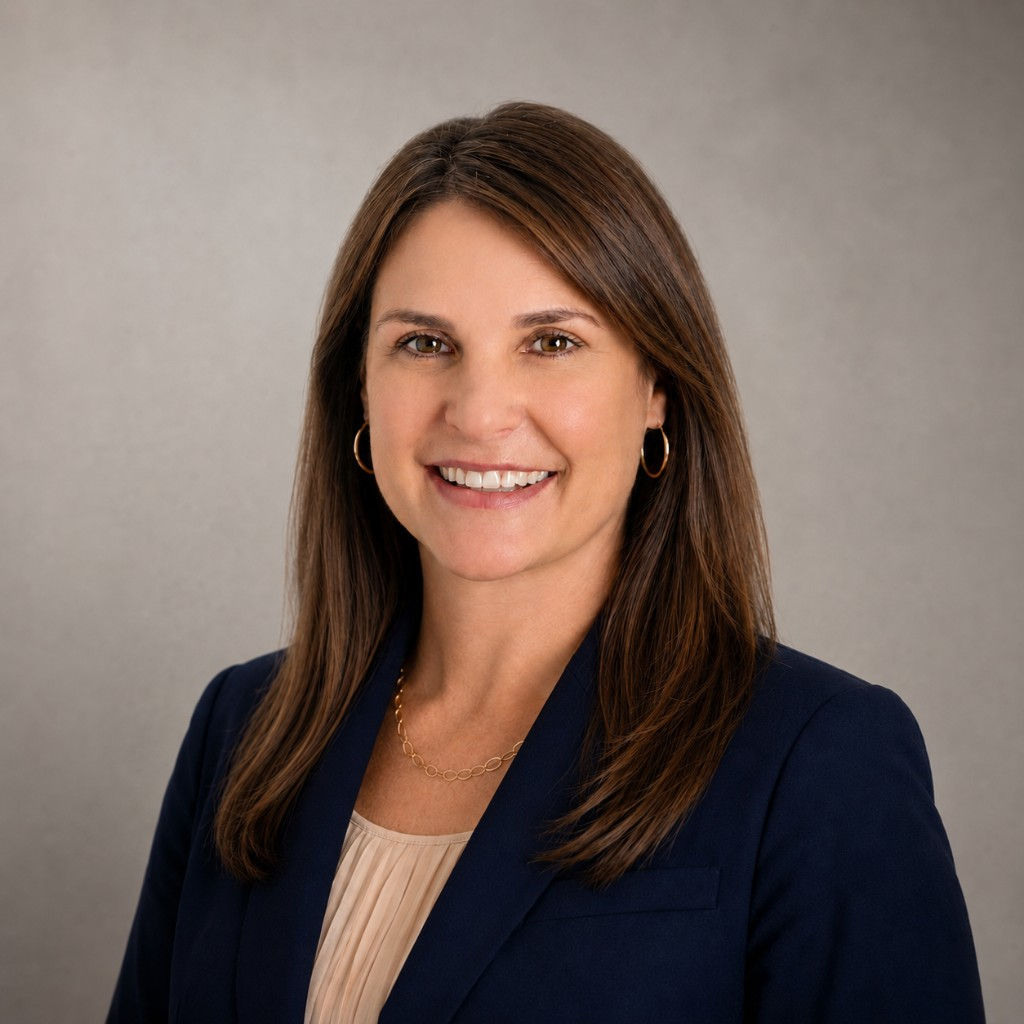
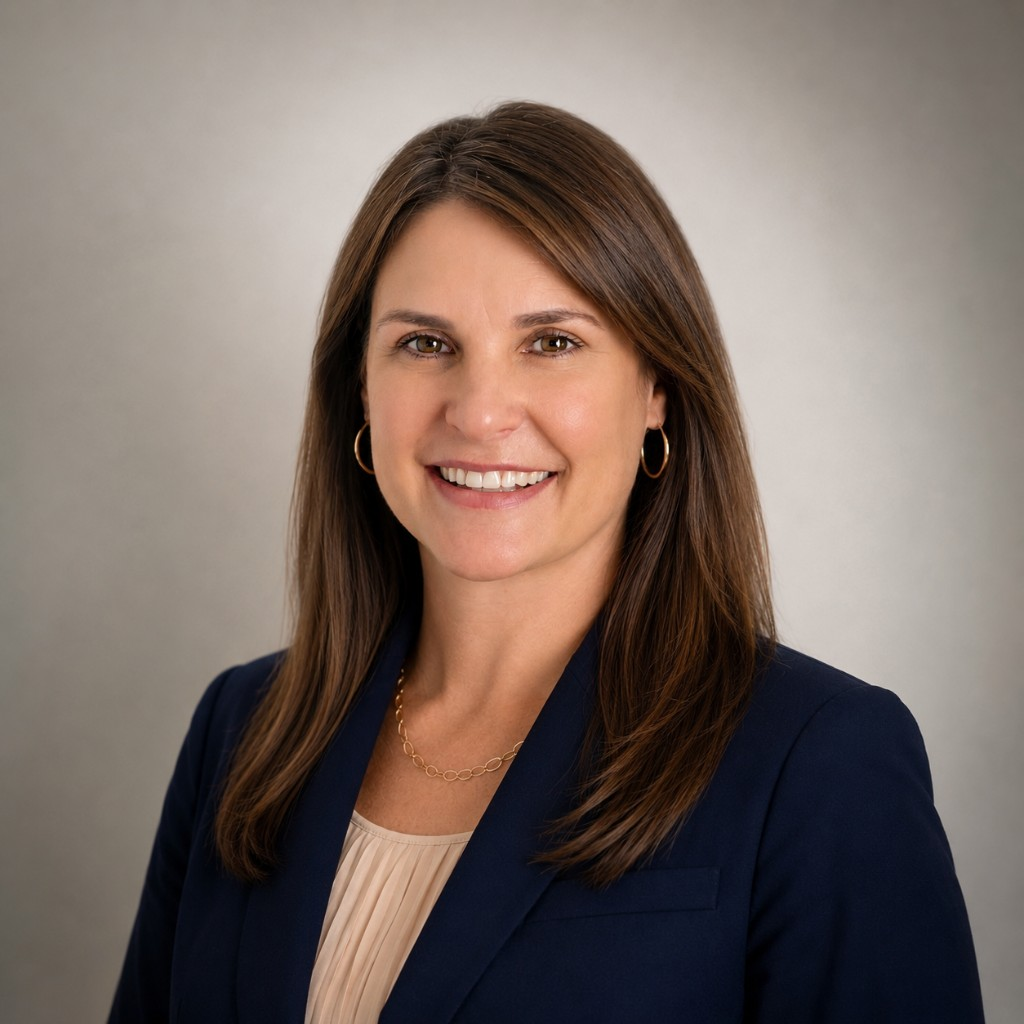
Justify body paragraphs, update headshot, keep hero subtext left-aligned.
Apply global justified paragraph styling with hyphenation; leave hero tagline and form messages left-aligned. Replace About headshot with higher-quality asset.

diff --git a/components/Contact.tsx b/components/Contact.tsx
@@ -75,7 +75,7 @@ const Contact = () => {
 
   const handleSubmit = async (e: React.FormEvent) => {
     e.preventDefault();
-    
+
     if (!validateForm()) {
       return;
     }
@@ -100,35 +100,35 @@ const Contact = () => {
       try {
         data = await response.json();
       } catch (parseError) {
-        console.error('Failed to parse response:', parseError);
+        console.error("Failed to parse response:", parseError);
         throw new Error("Server returned an invalid response. Please try again.");
       }
 
       if (!response.ok) {
-        // Use the message from server if available, otherwise use error
-        const errorMessage = data?.message || data?.error || `Server error (${response.status})`;
-        console.error('Server error:', { status: response.status, data });
+        const errorMessage =
+          data?.message || data?.error || `Server error (${response.status})`;
+        console.error("Server error:", { status: response.status, data });
         throw new Error(errorMessage);
       }
 
-      // Success
       setSubmitStatus({
         type: "success",
         message: "Thank you! Your message has been sent successfully.",
       });
 
-      // Reset form
       setFormData({ name: "", email: "", message: "" });
       setErrors({ name: "", email: "", message: "" });
 
-      // Clear success message after 5 seconds
       setTimeout(() => {
         setSubmitStatus({ type: null, message: "" });
       }, 5000);
     } catch (error) {
       setSubmitStatus({
         type: "error",
-        message: error instanceof Error ? error.message : "Failed to send message. Please try again.",
+        message:
+          error instanceof Error
+            ? error.message
+            : "Failed to send message. Please try again.",
       });
     } finally {
       setIsSubmitting(false);
@@ -140,7 +140,6 @@ const Contact = () => {
   ) => {
     const { name, value } = e.target;
     setFormData((prev) => ({ ...prev, [name]: value }));
-    // Clear error when user starts typing
     if (errors[name as keyof typeof errors]) {
       setErrors((prev) => ({ ...prev, [name]: "" }));
     }
@@ -175,13 +174,16 @@ const Contact = () => {
               </div>
               <div>
                 <h3 className="text-2xl md:text-3xl font-inter font-bold text-gray-900 mb-4">
-                  Let's Talk.
+                  Let&apos;s Talk.
                 </h3>
                 <p className="text-gray-700 leading-relaxed mb-4">
-                  Share a brief description of your business or solar-related issue and how to reach you. We'll review your message and follow up to discuss whether Paquin Law is a good fit and what next steps might look like.
+                  Share a brief description of your business or solar-related issue and how to
+                  reach you. We&apos;ll review your message and follow up to discuss whether
+                  Paquin Law is a good fit and what next steps might look like.
                 </p>
                 <p className="text-gray-600 text-sm leading-relaxed italic">
-                  Contacting Paquin Law does not create an attorney–client relationship. Please do not include confidential details until we've confirmed representation.
+                  Contacting Paquin Law does not create an attorney–client relationship. Please
+                  do not include confidential details until we&apos;ve confirmed representation.
                 </p>
               </div>
             </motion.div>
@@ -210,7 +212,7 @@ const Contact = () => {
                         }`}
                         placeholder="Your full name"
                       />
-                      {errors.name && <p className="mt-2 text-sm text-red-600">{errors.name}</p>}
+                      {errors.name && <p className="mt-2 text-sm text-red-600 text-left">{errors.name}</p>}
                     </div>
                     <div>
                       <label htmlFor="email" className="block text-sm font-medium text-gray-900 mb-2">
@@ -227,7 +229,9 @@ const Contact = () => {
                         }`}
                         placeholder="your.email@example.com"
                       />
-                      {errors.email && <p className="mt-2 text-sm text-red-600">{errors.email}</p>}
+                      {errors.email && (
+                        <p className="mt-2 text-sm text-red-600 text-left">{errors.email}</p>
+                      )}
                     </div>
                   </div>
                   <div>
@@ -239,13 +243,15 @@ const Contact = () => {
                       name="message"
                       value={formData.message}
                       onChange={handleChange}
-                      rows={6}
+                      rows={7}
                       className={`bg-white border-gray-300 text-gray-900 placeholder-gray-400 resize-none transition-all duration-300 focus:ring-2 focus:ring-primary focus:border-primary ${
                         errors.message ? "border-red-500" : ""
                       }`}
                       placeholder="Tell us about your legal needs..."
                     />
-                    {errors.message && <p className="mt-2 text-sm text-red-600">{errors.message}</p>}
+                    {errors.message && (
+                      <p className="mt-2 text-sm text-red-600 text-left">{errors.message}</p>
+                    )}
                   </div>
                   {submitStatus.type && (
                     <motion.div
@@ -262,11 +268,11 @@ const Contact = () => {
                       ) : (
                         <XCircle className="h-5 w-5 text-red-600 flex-shrink-0 mt-0.5" />
                       )}
-                      <p className="text-sm font-medium flex-1">{submitStatus.message}</p>
+                      <p className="text-sm font-medium flex-1 text-left">{submitStatus.message}</p>
                     </motion.div>
                   )}
-                  <Button 
-                    type="submit" 
+                  <Button
+                    type="submit"
                     className="w-full h-12 text-lg font-medium"
                     disabled={isSubmitting}
                   >
@@ -299,4 +305,3 @@ const Contact = () => {
 };
 
 export default Contact;
-

diff --git a/components/Hero.tsx b/components/Hero.tsx
@@ -33,7 +33,7 @@ const Hero = () => {
             >
               Insight. Experience. Results.
             </h1>
-            <p className="text-lg md:text-xl text-white/90 mb-8 max-w-2xl opacity-0 animate-fade-in-up animation-delay-200 leading-relaxed">
+            <p className="text-lg md:text-xl text-white/90 mb-8 max-w-2xl text-left opacity-0 animate-fade-in-up animation-delay-200 leading-relaxed">
               Strategic legal counsel for modern businesses at every stage of
               growth. Paquin Law also maintains a focused niche in complex solar
               contract and financing disputes.

diff --git a/app/globals.css b/app/globals.css
@@ -127,6 +127,10 @@
   h1, h2, h3, h4, h5, h6 {
     @apply font-inter;
   }
+  p {
+    @apply text-justify;
+    hyphens: auto;
+  }
 }
 
 /* Smooth scroll behavior */
